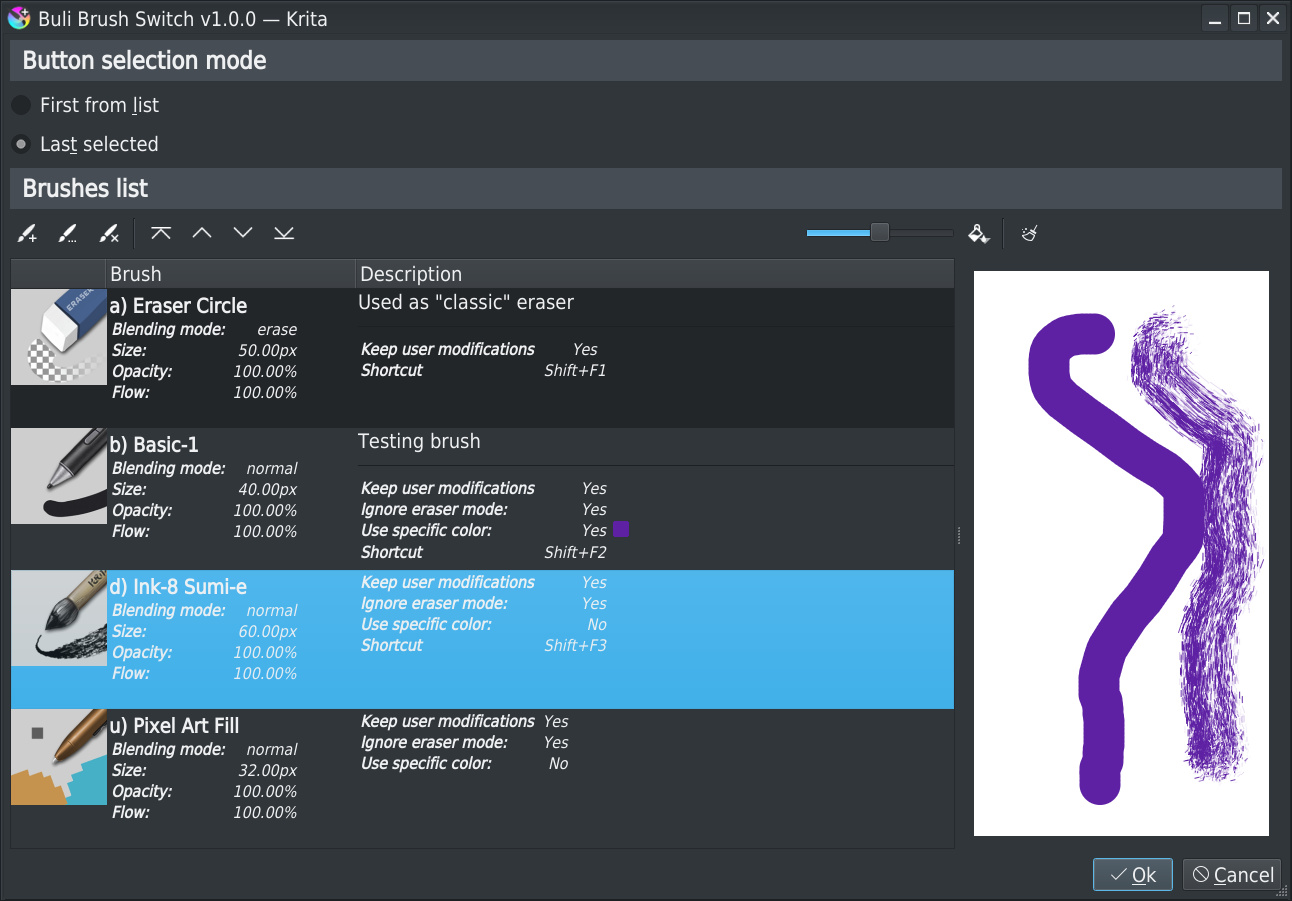
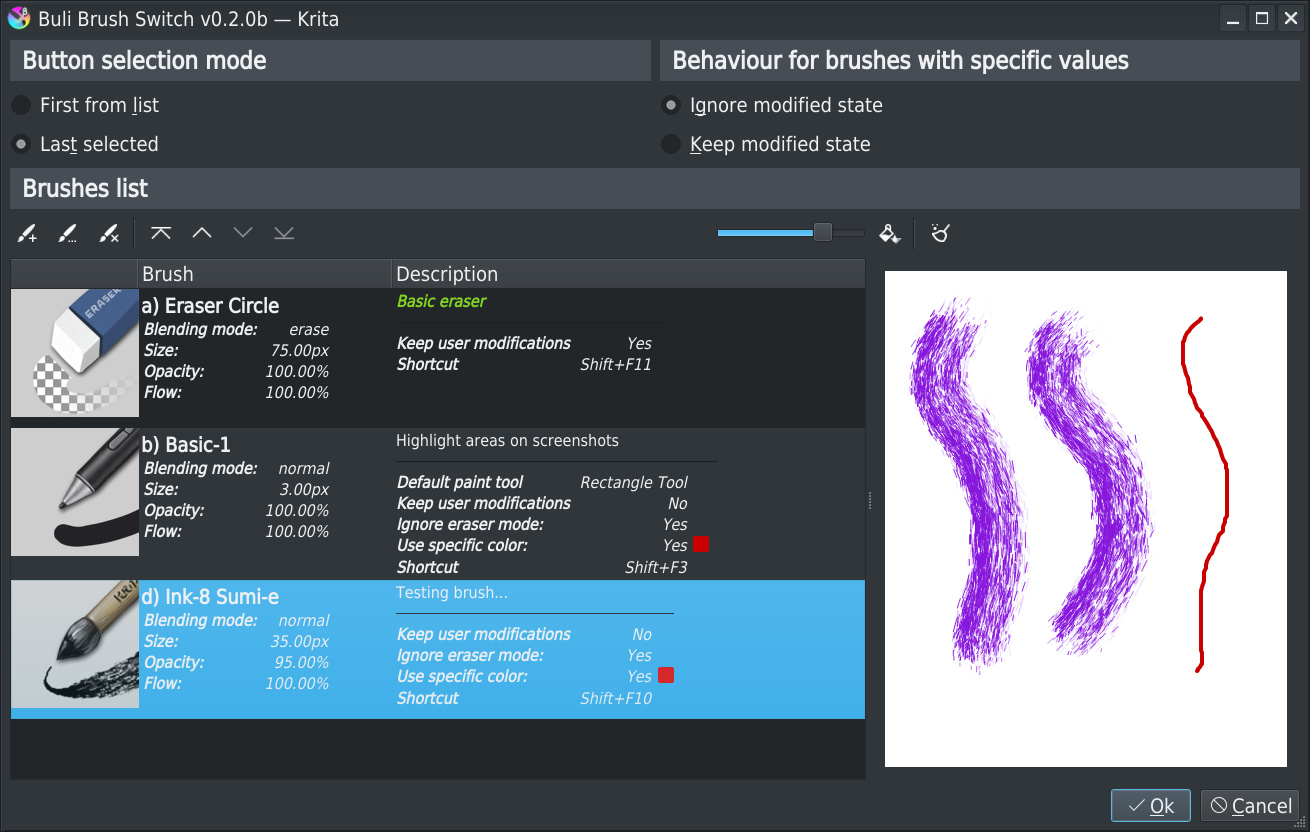
Release 0.2.0b
. Create release note
. Update readme

diff --git a/README.md b/README.md
@@ -20,7 +20,7 @@ This plugin is similar to *Ten Brushes* and *Three Slots*: it allows to define s
 
 ![Main interface](./screenshots/settings-brush.jpeg)
 
-*Toolbar button + popup brush list*
+*Toolbar button + popup brushes list*
 
 ![Main interface](./screenshots/ui-list.jpeg)
 
@@ -42,7 +42,7 @@ Shortcuts for brushes can be managed directly from plugin or from default Krita'
 ## Download, Install & Execute
 
 ### Download
-+ **[ZIP ARCHIVE - v0.1.1b](https://github.com/Grum999/BuliBrushSwitch/releases/download/0.1.1b/bulibrushswitch.zip)**
++ **[ZIP ARCHIVE - v0.2.0b](https://github.com/Grum999/BuliBrushSwitch/releases/download/0.2.0b/bulibrushswitch.zip)**
 + **[SOURCE](https://github.com/Grum999/BuliBrushSwitch)**
 
 
@@ -65,10 +65,11 @@ Once installed, you should have a new button in toolbar, near the Krita's *Choos
 ### Tested platforms
 
 Plugin requires at least Krita 5
-It has been tested with Krita 5.0.0-beta2 (appimage) on Linux Debian 10.
+- It has been tested with Krita 5.0.0-beta5 (appimage) on Linux Debian 10
+- It has been *half* tested with Krita 5.0.0-beta5 on Windows 10
 
-- Not yet tested on another OS.
-- Not yet tested on Krita 5.1
+- Not yet tested on MacOS
+- Not yet tested on Krita 5.
 
 ---
 
@@ -111,6 +112,17 @@ The option for *Button selection mode* in brush list settings window allows to d
 | *Last selected* | - The icon in toolbar will always be the one from last selected brush in list<br/>- Clicking on icon button will then re-activate the last brush that has been selected in list |
 
 
+#### Settings: Behaviour for brushes with specific values
+
+The option for *Behaviour for brushes with specific values* in brush list settings window allows to define default behaviour when paint tool/color is modified when using a brush with specific paint tool/color.
+
+
+| Checked option | Description |
+| --- | --- |
+| *Ignore modified state* | For brushes with specific paint tool and/or color, exiting plugin’s brush will always restore initial paint tool and/or color |
+| *Keep modified state* | For brushes with specific paint tool and/or color, exiting plugin’s brush will:<br/>- If paint tool and/or color has been modified, keep last selected paint tool and/or color<br/>- If paint tool and/or color has NOT been modified, restore initial paint tool and/or color |
+
+
 #### Settings: Brushes list
 
 Brushes in list can be:
@@ -130,9 +142,11 @@ Each brush can be configured with some options:
 
 | Option | Description |
 | --- | --- |
-| *Keep user modification* | When checked, modified brush properties are kept for next time:<br/>- Blending mode<br/>- Size<br/>- Opacity<br/>- Flow<br/>- Color *(only if option "Use specific color is checked")*<br/>When unchecked, modifications made to properties are not kept in brush configuration |
+| *Blending mode*<br/>*Size*<br/>*Opacity*<br/>*Flow* | Allows to tune specific values for brush, different than default one |
+| *Use specific paint tool* | When checked, paint tool selected in list is activated automatically when brush is selected |
+| *Keep user modification* | When checked, modified brush properties are kept for next time:<br/>- Blending mode<br/>- Size<br/>- Opacity<br/>- Flow<br/>- Paint tool *(only if option "Use specific paint tool is checked")*<br/>- Color *(only if option "Use specific color is checked")*<br/>When unchecked, modifications made to properties are not kept in brush configuration |
 | *Ignore eraser mode*<sup>*</sup> | When checked, Krita's *eraser mode* is deactivated for brush, you have to explicitly switch to an eraser |
-| *Use specific color*<sup>*</sup> | When checked, defined color is automatically applied when brush is activated |
+| *Use specific color*<sup>*</sup> | When checked, defined color is automatically applied when brush is activated<br/>- Foreground color is mandatory<br/>- Background color is optional |
 | *Shortcut* | Shortcut to activate/deactivate a brush can be defined from here (or from Krita's usual shortcuts settings window) |
 | *Comments* | Free rich text comment can be added on a brush<br>First comment line is used to identify easily brushes in Krita's usual shortcuts settings window |
 
@@ -170,6 +184,22 @@ To **unselect** a brush from plugin list:
 
 ### What's new?
 
+_[2021-12-10] Version 0.2.0b_ *[Show detailed release content](https://github.com/Grum999/BuliBrushSwitch/blob/main/releases-notes/RELEASE-0.2.0b.md)*
+- Improve *Popup brushes list*
+- Implement *Default behaviour option for brushes with specific values*
+- Implement *Modification of brush properties from brush settings*
+- Implement *Specific paint tool for brush*
+- Implement *Specific background color for brush*
+- Fix bug *Selecting brush from Popup brushes list*
+- Fix bug *Error on Krita's exit*
+- Fix bug *Shortcut lost on tool selection*
+- Fix bug *Non modal settings window*
+- Fix bug *Krita's brush properties lost*
+- Fix bug *Invalid selected brush*
+- Fix bug *Difference according to method used to exit selected plugin brush*
+- Fix bug *Missing icon on Brushes list settings*
+
+
 _[2021-12-02] Version 0.1.1b_ *[Show detailed release content](https://github.com/Grum999/BuliBrushSwitch/blob/main/releases-notes/RELEASE-0.1.1b.md)*
 - Add missing `.action` file on installation
 - Fix invalid default brush definition from settings when no configuration files exists
@@ -182,20 +212,16 @@ _[2021-12-01] Version 0.1.0b_ *[Show detailed release content](https://github.co
 
 ### Bugs
 
-Known bug on shortcut widget, all keystrokes are not recognized.
+Known bug on shortcut widget, all keystrokes are not recognized (at least on my Debian)
 And probably some other I didn't saw.
-The shortcut configuration has been a little bit tweaked to let the plugin being able to manage an indeterminate number of brushes, so please take care about potential bugs here.
 
 Please consider the plugin is still in beta version!
 
 ### What’s next?
 
 Some ideas to implement:
-- Add an option at brush level to let possibility to switch automatically to freehand brush tool (or any other?) when brush is selected
 - Replace option "Ignore eraser mode" at brush level to let the possibility to define a specific brush to use for "eraser mode"
-- In canvas only mode, display popup list centered on cursor position
 - Some cosmetics improvements (brush list, toolbar button)
-- Allows to configure brush properties (blending mode, size, opacity, flow) from brush setting dialog box
 
 
 ## License

diff --git a/releases-notes/RELEASE-0.2.0b.md b/releases-notes/RELEASE-0.2.0b.md
@@ -1,0 +1,132 @@
+# Buli Brush Switch :: Release 0.2.0b [2021-12-10]
+
+# Improve *Popup brushes list*
+
+## Popup position
+
+When popup brushes list is displayed, ensure the popup is entirely visible in current screen.
+
+In canvas only mode, display popup brush list is now centered under cursor position.
+
+## Popup style & tooltip
+
+The popup brushes list can be displayed as a list of brushes, with detailed informations, or as an icons grid.
+
+Detailed tooltip on brushes allows to display informations if not available (small icon size or icons grid mode).
+
+*Detailed list style*
+![Popup brushes list](./../screenshots/r0-2-0b_popup-brushes-list_iconstyle.jpeg)
+> Click on "Brushes view mode" button to switch between visualisation style
+
+*Icons grid list style*
+![Popup brushes list & tooltip](./../screenshots/r0-2-0b_popup-brushes-list_iconstyle+tooltip.png)
+> Tooltip on brush icon display detailed informations
+
+
+# Improve *Brushes settings*
+
+## Default behaviour with modified paint tool/color for brush with specific paint tool/color
+
+An option to let user choose default behaviour when paint tool/color is modified when using a brush with specific paint tool/color:
+- **Ignore modified state**
+  *For brushes with specific paint tool and/or color, exiting plugin’s brush will always restore initial paint tool and/or color*
+
+- **Keep modified state**
+  *For brushes with specific paint tool and/or color, exiting plugin’s brush will:*
+  *- If paint tool and/or color has been modified, keep last selected paint tool and/or color*
+  *- If paint tool and/or color has NOT been modified, restore initial paint tool and/or color*
+
+![Global brushes list settings](./../screenshots/r0-2-0b_settings-brushes-list_modificationbehavior.jpeg)
+> Choosen option is applied for all brushes
+
+
+## Define brush properties from brush settings
+
+The brush settings window allows to modify brush properties:
+- Blending mode
+- Size
+- Opacity
+- Flow
+
+A button allows to reset brush properties to Krita's default settings values.
+
+![Brush settings](./../screenshots/r0-2-0b_settings-brush-properties_options.jpeg)
+
+## Specific paint tool
+
+It's possible to define a specific **paint tool** to activate when brush is selected.
+
+
+## Specific background color  
+
+When a specific color is defined, it's now possible to also define a background color to apply when brush is selected.
+
+To not modify Krita's background color, just set value to **No color**.
+
+![Brush settings](./../screenshots/r0-2-0b_settings-brush-options_bgcolor.jpeg)
+
+> **Note:** It's not possible to set a background color without a foreground color: when option is activated, foreground is mandatory, background is optional
+
+
+# Fixed bugs
+
+## Error when selecting brush from *Popup brushes list*
+
+When no canvas was available, selecting a brush was generating a script error message.
+
+Fixed: selecting a brush when no canvas is available is ignored.
+
+
+## Error on Krita's exit  
+
+Closing Krita when plugin configuration was modified but not saved was generating a script error message.
+There was also some situation where plugin configuration was not saved because situation (configuration not saved) was not detected.
+
+Fixed: saving configuration is now made properly; also fixed case where situation was not detected.
+
+
+## Shortcut lost on tool selection
+
+When a tool was selected, defined shortcuts (through plugin interface) were lost.
+There was also some miscellaneous situations were shortcuts configurations were lost from settings dialog.
+
+Fixed: shortcut aren't lost anymore.
+
+
+## Non modal settings window
+
+Brushes list settings window wasn't modal and it was possible to modify configuration, use Krita's and plugin, and get dirty thing in this case.
+
+Fixed: brushes list settings window is now modal window.
+
+
+## Krita's brush properties lost
+
+In some specific use, Krita's brush properties were override by plugin brush properties.
+
+Fixed: when exiting selected plugin brush, Krita's brush properties are properly restored
+
+
+## Invalid selected brush
+
+When button selection mode was set to "*Last selected*" and if there was more than one brush settings for the same brush name (example: 2 different settings for brush **a) Basic-1**) the first brush found in list was always selected.
+
+Fixed: the right brush settings is always selected, even if there's more than one definition with the same brush name.
+
+
+## Difference according to method used to exit selected plugin brush
+
+When exiting selected plugin brush from:
+- Toolbar button click
+- Selecting another brush preset in Krita's brush presets list
+- Shortcut
+
+The behaviour about how initial color was restored was not the same.
+
+Fixed: whatever the method used to activate/deactivate a plugin's brush, the behaviour is the same.
+
+## Missing icon on *Brushes list settings*
+
+The *Clear scratchpad* icon was missing on windows.
+
+Fixed: use right icon whatever the OS on which plugin is running
